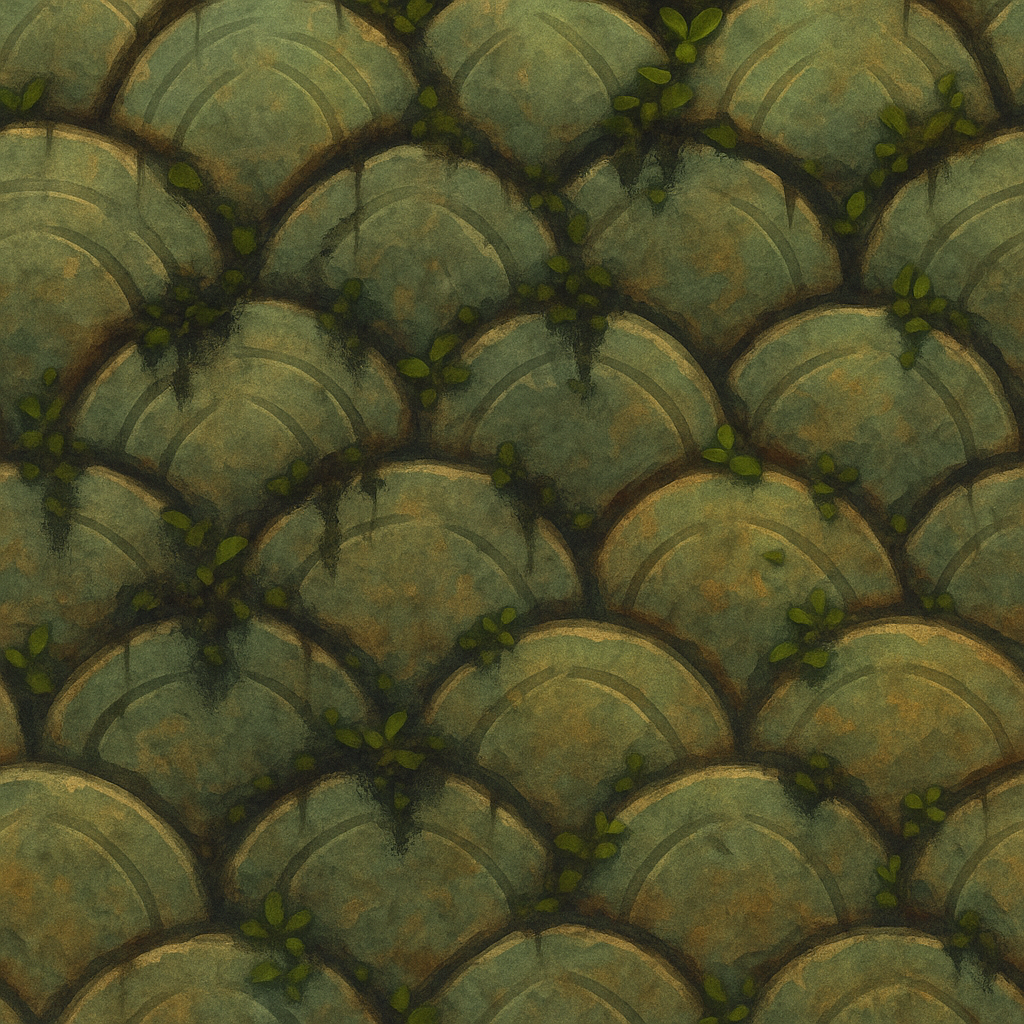
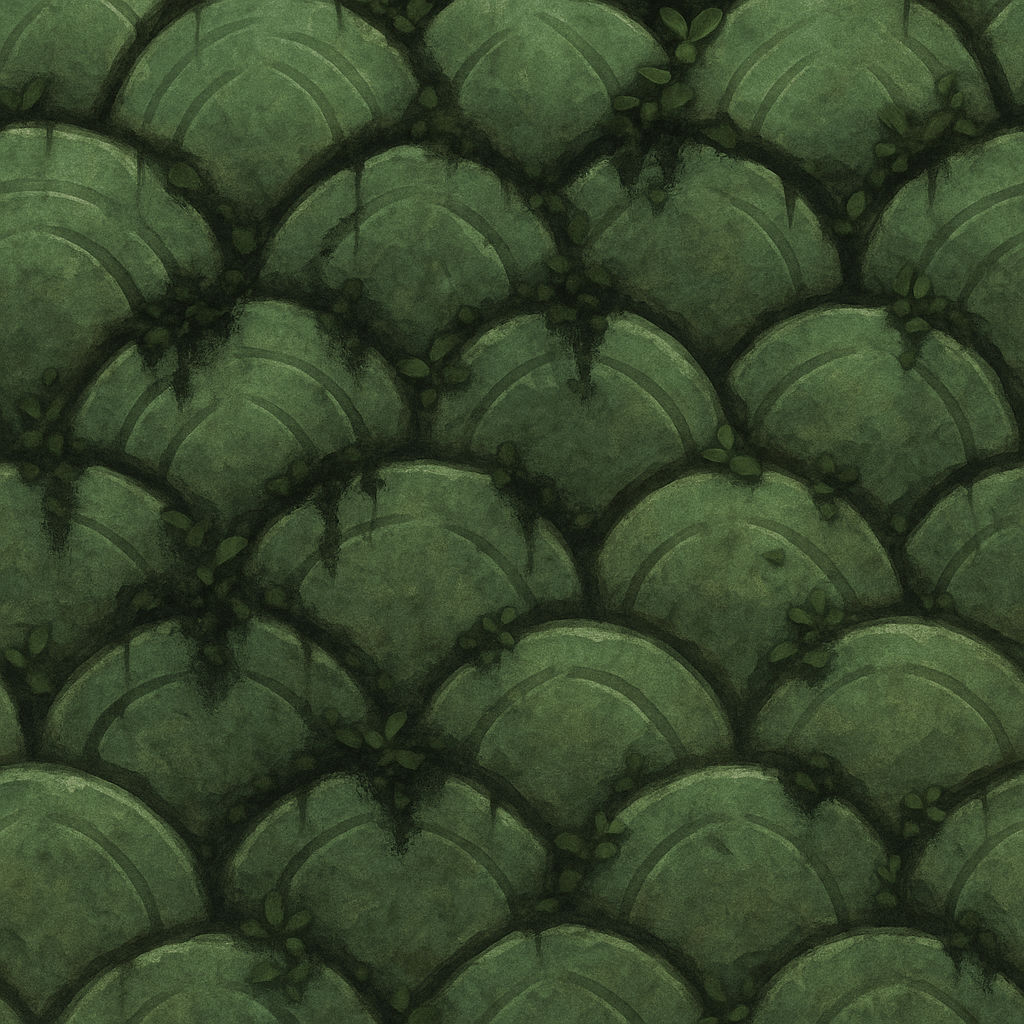
Retheme to Temple-Run-style memecoin look with $ANSEM bull character
- bull.png: replace Pepe bull with the $ANSEM 'The Black Bull' art (bull with
  Ansem's face), cut out from the token's original IPFS image onto a
  transparent sprite with shadow lift so it reads on dark scenes; shows on
  the landing hero, start button, and favicon
- world textures: mossy jungle-temple walls (canal/cliff/tunnel), golden
  sandstone path pavers, teal jungle water, warmer wood
- sky: dusky sunset regraded to bright golden hour
- UI frames: silver steel plates re-tinted to golden temple stone
- stylesheet: lime accents shifted to emerald pump green, olive neutrals
  warmed to sandy gold, brighter temple-gold highlights

Claude-Session: https://claude.ai/code/session_01597jLrtoVvGcRRRKovamuQ

diff --git a/assets/index-DWdqRevs.css b/assets/index-DWdqRevs.css
@@ -1,1 +1,1 @@
-@import "https://fonts.googleapis.com/css2?family=Luckiest+Guy&family=Fredoka:wght@500;600&display=swap";*{box-sizing:border-box;margin:0;padding:0}html,body,#root{height:100%}body{-webkit-font-smoothing:antialiased;-moz-osx-font-smoothing:grayscale;-webkit-user-select:none;user-select:none;background:#14100a;font-family:Luckiest Guy,Trebuchet MS,system-ui,sans-serif;overflow:hidden}button{font:inherit;color:inherit;cursor:pointer;background:0 0;border:none}a{color:inherit;text-decoration:none}img,svg{-webkit-user-drag:none;display:block}.landing{background:url(/herobg.png) 50%/cover no-repeat;height:100%;position:relative;overflow:hidden}.logo{filter:drop-shadow(0 6px 14px #0000008c);pointer-events:none;width:clamp(300px,40vw,580px);position:absolute;top:clamp(8px,2vh,24px);left:50%;translate:-50%}.settings-btn{aspect-ratio:929/874;background:url(/frames/square.png) 50%/contain no-repeat;place-items:center;width:clamp(60px,6.5vw,84px);transition:transform .15s,filter .15s;display:grid;position:absolute;top:clamp(12px,2.5vh,24px);left:clamp(12px,2vw,24px)}.settings-btn svg{fill:#8f8f8b;filter:drop-shadow(0 1px 1px #ffffff59)drop-shadow(0 -1px 1px #0006);width:52%;height:52%}.hud-menu{flex-direction:column;align-items:flex-end;gap:clamp(8px,1.4vh,14px);display:flex;position:absolute;top:clamp(12px,2.5vh,24px);right:clamp(12px,2vw,24px)}.menu-btn{aspect-ratio:1498/544;color:#efe3c4;letter-spacing:1px;text-shadow:0 2px 3px #000c;background:url(/frames/horizontal.png) 50%/contain no-repeat;place-items:center;width:clamp(190px,17vw,250px);padding:.35em 14% 0;font-size:clamp(15px,1.35vw,20px);line-height:1;transition:transform .15s,filter .15s;display:grid}.stage{flex-direction:column;align-items:center;display:flex;position:absolute;top:55%;left:50%;translate:-50% -50%}.arch-text{width:clamp(320px,34vw,480px);margin-bottom:clamp(-18px,-1.2vw,-10px);overflow:visible}.arch-text text{fill:#f3e2b4;stroke:#4b2708;stroke-width:7px;paint-order:stroke;letter-spacing:2px;font-family:Luckiest Guy,sans-serif;font-size:44px}.bull-btn{transition:transform .15s;animation:2.2s ease-in-out infinite bull-bounce;position:relative}.bull-btn:before{content:"";background:radial-gradient(circle,#ffd65ccc 0%,#ffb82859 38%,#0000 68%);animation:2.2s ease-in-out infinite glow-pulse;position:absolute;inset:-28%}.bull-btn img{width:clamp(140px,21vh,210px);animation:2.2s ease-in-out infinite bull-glow;position:relative}.bull-btn:hover{transform:scale(1.05)}.press-play{color:#efe3c4;letter-spacing:3px;text-shadow:0 0 6px #0009,0 3px 4px #000c;margin-top:clamp(14px,3.5vh,40px);font-size:clamp(20px,2.2vw,32px);animation:1.8s ease-in-out infinite soft-pulse}.dock{gap:clamp(14px,2.2vw,32px);display:flex;position:absolute;bottom:clamp(12px,3vh,28px);left:50%;translate:-50%}.dock-btn{aspect-ratio:1536/1024;background:url(/frames/small.png) 50%/contain no-repeat;place-items:center;width:clamp(78px,8.5vw,118px);transition:transform .15s,filter .15s;display:grid}.dock-btn svg{fill:#4a4a46;filter:drop-shadow(0 1px #fff6);width:34%;height:34%}.dock-btn .dex-icon{filter:grayscale();mix-blend-mode:multiply;opacity:.72;width:36%}.buy-btn{aspect-ratio:1174/439;color:#3d2504;letter-spacing:1px;text-shadow:0 1px #fff0aa99;background:url(/frames/gold.png) 50%/contain no-repeat;place-items:center;width:clamp(170px,15vw,230px);padding-top:.35em;font-size:clamp(18px,1.6vw,26px);line-height:1;transition:transform .15s,filter .15s;display:grid;position:absolute;bottom:clamp(12px,3vh,28px);right:clamp(12px,2vw,28px)}.settings-btn:hover,.menu-btn:hover,.dock-btn:hover,.buy-btn:hover{filter:brightness(1.12);transform:scale(1.06)}.settings-btn:active,.menu-btn:active,.dock-btn:active,.buy-btn:active{transform:scale(.97)}.modal-overlay{z-index:50;background:#00000080;place-items:center;animation:.2s fade-in;display:grid;position:fixed;inset:0}.modal{filter:drop-shadow(0 14px 34px #000000a6);border:40px solid #0000;border-image:url(/frames/square.png) 90 fill;width:min(640px,92vw);max-height:88vh;animation:.22s pop-in;position:relative}.modal-close{aspect-ratio:1536/1024;background:url(/frames/small.png) 50%/contain no-repeat;place-items:center;width:118px;transition:transform .15s,filter .15s;display:grid;position:absolute;top:-58px;right:-76px}.modal-close:hover{filter:brightness(1.12);transform:scale(1.08)}.modal-close svg{stroke:#4a4a46;stroke-width:4.5px;stroke-linecap:round;fill:none;filter:drop-shadow(0 1px #fff6);width:34%;height:34%}.modal-body{max-height:calc(88vh - 140px);padding:clamp(18px,3.5vh,36px) clamp(8px,2.5vw,28px) clamp(26px,5vh,48px);overflow-y:auto}.modal-title{text-align:center;color:#f4d9a4;letter-spacing:2px;text-shadow:0 3px 4px #000c;margin-bottom:clamp(20px,3.5vh,36px);font-size:clamp(26px,3vw,36px)}.steps{flex-direction:column;gap:clamp(18px,3vh,30px);list-style:none;display:flex}.step{grid-template-columns:56px 1fr;align-items:center;gap:18px;display:grid}.step-num{color:#8a6420;background:linear-gradient(160deg,#f6eed6 0%,#e5d7ae 100%);border-radius:8px;place-items:center;width:56px;height:56px;padding-top:6px;font-size:28px;line-height:1;display:grid;rotate:-2deg;box-shadow:inset 0 -3px #7a5a1e40,0 3px 6px #00000080}.step h3{color:#e79b2d;letter-spacing:1px;text-shadow:0 2px 3px #000000bf;margin-bottom:2px;font-size:clamp(17px,1.8vw,22px);font-weight:400}.step p{color:#f5f2ea;text-shadow:0 1px 2px #000000b3;font-family:Fredoka,Trebuchet MS,sans-serif;font-size:clamp(13px,1.3vw,15.5px);font-weight:500;line-height:1.35}.lb-subtitle{text-align:center;color:#b8b09a;text-shadow:0 1px 2px #000000b3;margin:-14px 0 clamp(14px,2.5vh,24px);font-family:Fredoka,Trebuchet MS,sans-serif;font-size:clamp(12px,1.2vw,14.5px);font-weight:500}.lb-panel{background:#00000047;border:2px solid #beb9a038;border-radius:16px;gap:clamp(12px,1.8vw,22px);padding:clamp(12px,1.8vh,18px);display:flex;box-shadow:inset 0 2px 10px #00000073}.lb-track{cursor:pointer;background:linear-gradient(#0000008c,#0006);border:2px solid #83816f;border-radius:12px;flex:none;width:24px;position:relative;box-shadow:inset 0 3px 6px #000c,0 1px #ffffff1f}.lb-thumb{cursor:grab;touch-action:none;z-index:1;width:34px;height:34px;position:absolute;left:50%;translate:-50%}.lb-thumb:active{cursor:grabbing}.lb-thumb:before{content:"";background:linear-gradient(135deg,#ecece2 0%,#a9a89a 55%,#83816f 100%);border:2px solid #2c2c24;border-radius:5px;position:absolute;inset:2px;rotate:45deg;box-shadow:0 2px 5px #0009}.lb-thumb:after{content:"";background:linear-gradient(135deg,#d5ff5e 0%,#86e429 45%,#4ea812 100%);border:1px solid #2c5c10;border-radius:3px;position:absolute;inset:9px;rotate:45deg;box-shadow:inset 0 1px 2px #fff9}.lb-scroll{scrollbar-width:none;flex:1;max-height:min(48vh,420px);overflow-y:auto}.lb-scroll::-webkit-scrollbar{display:none}.lb-list{list-style:none}.lb-row{border-bottom:1px solid #ffffff12;grid-template-columns:40px 1fr auto;align-items:center;gap:14px;padding:clamp(8px,1.4vh,12px) 8px;display:grid}.lb-row:last-child{border-bottom:none}.lb-rank{color:#b9b29b;text-align:center;text-shadow:0 2px 2px #000000b3;padding-top:4px;font-size:clamp(16px,1.6vw,20px);line-height:1}.lb-rank.top{color:#ffd94a}.lb-name{color:#f5f2ea;text-overflow:ellipsis;white-space:nowrap;text-shadow:0 1px 2px #000000b3;font-family:Fredoka,Trebuchet MS,sans-serif;font-size:clamp(13.5px,1.35vw,16px);font-weight:500;overflow:hidden}.lb-score{color:#e79b2d;text-shadow:0 2px 2px #000000b3;padding-top:4px;font-size:clamp(15px,1.5vw,19px);line-height:1}.modal-title.green{color:#8ce63a;text-shadow:0 0 2px #1e4a0a,0 3px 4px #000000d9}.settings{flex-direction:column;gap:clamp(20px,3.2vh,30px);padding:0 clamp(4px,2vw,24px);display:flex}.set-label{color:#f5f2ea;text-shadow:0 1px 2px #000000b3;margin-bottom:12px;font-family:Fredoka,Trebuchet MS,sans-serif;font-size:clamp(16px,1.6vw,19px);font-weight:600;display:block}.set-slider{appearance:none;background:linear-gradient(180deg, #a8ef42 0%, #86e429 45%, #55b515 100%) 0 / var(--fill) 100% no-repeat, linear-gradient(180deg, #12100c 0%, #26231c 100%);cursor:pointer;border:3px solid #83816f;border-radius:14px;width:100%;height:28px;display:block;box-shadow:inset 0 3px 6px #000000b3,0 1px #ffffff1f}.set-slider::-webkit-slider-thumb{-webkit-appearance:none;cursor:grab;background:radial-gradient(circle at 50% 45%,#b9f24e 0 36%,#0000 39%),linear-gradient(135deg,#ecece2 0%,#a9a89a 55%,#83816f 100%);border:2px solid #2c2c24;border-radius:6px;width:27px;height:27px;transform:rotate(45deg);box-shadow:0 2px 4px #0000008c}.set-slider::-moz-range-thumb{cursor:grab;background:radial-gradient(circle at 50% 45%,#b9f24e 0 36%,#0000 39%),linear-gradient(135deg,#ecece2 0%,#a9a89a 55%,#83816f 100%);border:2px solid #2c2c24;border-radius:6px;width:24px;height:24px}.set-row-inline{align-items:center;gap:18px;display:flex}.set-row-inline .set-label{margin-bottom:0}.set-toggle{color:#f5f2ea;letter-spacing:1px;background:linear-gradient(#3b382f 0%,#211f19 100%);border:2px solid #83816f;border-radius:999px;align-items:center;gap:10px;padding:.5em 20px 5px 12px;font-size:15px;line-height:1;transition:filter .15s;display:inline-flex;box-shadow:inset 0 2px 5px #0009}.set-toggle:hover{filter:brightness(1.15)}.toggle-gem{background:linear-gradient(135deg,#8f8d81 0%,#55534a 100%);border:2px solid #2c2c24;border-radius:4px;width:17px;height:17px;margin-top:-.4em;rotate:45deg}.set-toggle.on .toggle-gem{background:linear-gradient(135deg,#d5ff5e 0%,#86e429 45%,#4ea812 100%)}.set-footer{color:#a89f85;letter-spacing:1px;font-family:Fredoka,Trebuchet MS,sans-serif;font-size:12px;font-weight:600}.set-input{color:#f5f2ea;text-shadow:0 1px 2px #000000b3;background:linear-gradient(#12100c 0%,#26231c 100%);border:3px solid #83816f;border-radius:14px;outline:none;width:100%;padding:12px 16px 10px;font-family:Fredoka,Trebuchet MS,sans-serif;font-size:clamp(15px,1.5vw,18px);font-weight:600;display:block;box-shadow:inset 0 3px 6px #000000b3,0 1px #ffffff1f}.set-input::placeholder{color:#79715c;font-weight:500}.set-input:focus{border-color:#c9a44a;box-shadow:inset 0 3px 6px #000000b3,0 0 0 3px #e79b2d40}.signup-form{flex-direction:column;gap:clamp(16px,2.6vh,24px);padding:0 clamp(4px,2vw,24px);display:flex}.signup-actions{justify-content:center;margin-top:4px;display:flex}.form-error{color:#ff9563;text-shadow:0 1px 2px #000c;margin:-6px 0 0;font-family:Fredoka,Trebuchet MS,sans-serif;font-size:14px;font-weight:600}.set-toggle:disabled{opacity:.55;cursor:default;filter:none}.toggle-gem.saved{background:linear-gradient(135deg,#d5ff5e 0%,#86e429 45%,#4ea812 100%)}.auth-submit{aspect-ratio:1174/439;color:#3d2504;letter-spacing:1px;text-shadow:0 1px #fff0aa99;background:url(/frames/gold.png) 50%/contain no-repeat;place-items:center;width:clamp(180px,18vw,240px);padding-top:.35em;font-size:clamp(16px,1.5vw,21px);line-height:1;transition:transform .15s,filter .15s;display:grid}.auth-submit:hover{filter:brightness(1.12);transform:scale(1.06)}.auth-submit:active{transform:scale(.97)}.auth-submit:disabled{opacity:.55;cursor:default;filter:none;transform:none}.game-screen{background:#14100a;position:fixed;inset:0}.game-canvas{touch-action:none;width:100%;height:100%;display:block;position:absolute;inset:0}.game-hud{pointer-events:none;position:absolute;inset:0}.hud-pause{pointer-events:auto}.hud-stats{flex-direction:column;align-items:flex-end;gap:10px;display:flex;position:absolute;top:clamp(12px,2.5vh,24px);right:clamp(12px,2vw,24px)}.hud-bar{aspect-ratio:1498/544;color:#f4d9a4;letter-spacing:1px;text-shadow:0 2px 3px #000c;background:url(/frames/horizontal.png) 50%/contain no-repeat;justify-content:flex-end;align-items:center;gap:8px;width:clamp(150px,13vw,200px);padding:0 18%;font-size:clamp(15px,1.4vw,20px);line-height:1;display:flex}.hud-bar span{padding-top:.3em}.hud-icon{font-size:.85em}.game-over{text-align:center;width:min(480px,90vw)}.over-reason{color:#d8cfb4;text-shadow:0 1px 2px #000000b3;margin:-10px 0 20px;font-family:Fredoka,Trebuchet MS,sans-serif;font-size:clamp(14px,1.4vw,17px);font-weight:500}.over-stats{justify-content:center;gap:clamp(24px,4vw,48px);margin-bottom:clamp(20px,3.5vh,32px);display:flex}.over-stats>div{flex-direction:column;gap:6px;display:flex}.over-label{letter-spacing:2px;text-transform:uppercase;color:#a89f85;font-family:Fredoka,Trebuchet MS,sans-serif;font-size:12px;font-weight:600}.over-value{color:#e79b2d;text-shadow:0 2px 3px #000000bf;font-size:clamp(22px,2.4vw,30px);line-height:1}.over-buttons{flex-direction:column;align-items:center;gap:12px;display:flex}.over-btn{width:clamp(190px,18vw,230px);position:static}.over-menu{width:clamp(190px,18vw,230px)}@keyframes fade-in{0%{opacity:0}to{opacity:1}}@keyframes pop-in{0%{opacity:0;scale:.9}to{opacity:1;scale:1}}@keyframes bull-bounce{0%,to{translate:0}50%{translate:0 -14px}}@keyframes bull-glow{0%,to{filter:drop-shadow(0 0 14px #ffc846d9)drop-shadow(0 0 36px #ffa50073)}50%{filter:drop-shadow(0 0 24px #ffd664)drop-shadow(0 0 60px #ffb414b3)}}@keyframes glow-pulse{0%,to{opacity:.7;scale:1}50%{opacity:1;scale:1.1}}@keyframes soft-pulse{0%,to{opacity:1}50%{opacity:.65}}.docs{-webkit-user-select:text;user-select:text;background:#14100a;flex-direction:column;display:flex;position:fixed;inset:0;overflow:hidden}.docs-hero{background:linear-gradient(#14100a26 0%,#14100a8c 70%,#14100a 100%),url(/herobg.png) 50% 30%/cover no-repeat;flex-direction:column;flex:none;justify-content:center;align-items:center;min-height:clamp(150px,24vh,230px);padding:clamp(14px,3vh,26px) 20px;display:flex;position:relative}.docs-back{white-space:nowrap;width:clamp(150px,13vw,190px);padding:.35em 18px 0;font-size:clamp(12px,1vw,15px);position:absolute;top:clamp(12px,2.5vh,24px);left:clamp(12px,2vw,24px)}.docs-logo{filter:drop-shadow(0 6px 14px #0000008c);width:clamp(200px,22vw,320px)}.docs-tagline{color:#efe3c4;letter-spacing:2px;text-align:center;text-shadow:0 0 6px #0009,0 3px 4px #000c;margin-top:clamp(6px,1.4vh,14px);font-size:clamp(14px,1.4vw,19px)}.docs-shell{filter:drop-shadow(0 14px 34px #0009);border:38px solid #0000;border-image:url(/frames/square.png) 90 fill;flex:1;gap:clamp(10px,1.4vw,22px);width:min(1220px,96vw);min-height:0;margin:clamp(6px,1.5vh,16px) auto clamp(14px,2.5vh,26px);padding:clamp(10px,1.8vh,20px) clamp(8px,1.4vw,18px);display:flex}.docs-toc{border-right:2px solid #beb9a02e;flex-direction:column;flex:none;gap:6px;width:clamp(180px,17vw,230px);padding:8px 4px 8px 0;display:flex}.docs-toc-link{color:#cfc5a8;letter-spacing:1px;text-align:left;text-shadow:0 2px 3px #000c;border-radius:10px;align-items:center;gap:10px;padding:10px 10px 8px;font-size:clamp(13px,1.05vw,16px);line-height:1;transition:background .15s,color .15s;display:flex}.docs-toc-link:hover{color:#f5eeda;background:#0000004d}.toc-gem{background:linear-gradient(135deg,#8f8d81 0%,#55534a 100%);border:2px solid #2c2c24;border-radius:3px;flex:none;width:13px;height:13px;margin-top:-.35em;transition:background .15s;rotate:45deg}.docs-toc-link.active{color:#8ce63a;text-shadow:0 0 2px #1e4a0a,0 2px 3px #000000d9;background:#00000061}.docs-toc-link.active .toc-gem{background:linear-gradient(135deg,#d5ff5e 0%,#86e429 45%,#4ea812 100%)}.docs-toc-cta{align-self:center;width:100%;max-width:200px;margin-top:auto}.docs-scroll{scrollbar-width:none;flex:1;min-width:0;padding:6px clamp(10px,1.6vw,26px) 30px clamp(4px,1vw,14px);overflow-y:auto}.docs-scroll::-webkit-scrollbar{display:none}.docs-track{flex:none;margin:8px 2px 8px 0}.docs-section{border-bottom:2px solid #beb9a024;padding:clamp(10px,2vh,20px) 0 clamp(18px,3vh,30px)}.docs-section:last-child{border-bottom:none}.docs-h2{color:#f4d9a4;letter-spacing:2px;text-shadow:0 3px 4px #000c;margin-bottom:clamp(14px,2.4vh,24px);font-size:clamp(24px,2.6vw,32px)}.docs-section p,.docs-list li{color:#f5f2ea;text-shadow:0 1px 2px #000000b3;font-family:Fredoka,Trebuchet MS,sans-serif;font-size:clamp(14px,1.4vw,16.5px);font-weight:500;line-height:1.55}.docs-section p+p{margin-top:12px}.docs-section strong{color:#e79b2d;font-weight:600}.docs-list{flex-direction:column;gap:10px;margin:14px 0;list-style:none;display:flex}.docs-list li{padding-left:26px;position:relative}.docs-list li:before{content:"";background:linear-gradient(135deg,#d5ff5e 0%,#86e429 45%,#4ea812 100%);border:2px solid #2c2c24;border-radius:3px;width:11px;height:11px;position:absolute;top:.52em;left:4px;rotate:45deg}.docs-origin{max-width:440px;margin:clamp(16px,2.6vh,26px) auto;transition:transform .15s,filter .15s;display:block}.docs-origin:hover{filter:brightness(1.08);transform:scale(1.02)}.docs-origin img{border:3px solid #83816f;border-radius:14px;width:100%;box-shadow:0 10px 26px #0009}.docs-origin-caption{text-align:center;color:#b8b09a;text-shadow:0 1px 2px #000000b3;margin-top:10px;font-family:Fredoka,Trebuchet MS,sans-serif;font-size:clamp(12px,1.2vw,14px);font-weight:500;display:block}.docs-controls{flex-direction:column;gap:10px;margin:clamp(14px,2.4vh,22px) 0;display:flex}.docs-control{background:#00000047;border-radius:12px;grid-template-columns:minmax(150px,220px) 1fr;align-items:center;gap:14px;padding:10px 14px;display:grid}.docs-keys{color:#8ce63a;letter-spacing:1px;text-shadow:0 0 2px #1e4a0a,0 2px 3px #000000d9;font-size:clamp(13px,1.3vw,16px)}.docs-does{color:#f5f2ea;text-shadow:0 1px 2px #000000b3;font-family:Fredoka,Trebuchet MS,sans-serif;font-size:clamp(13px,1.3vw,15px);font-weight:500;line-height:1.4}.docs-steps{margin:clamp(14px,2.4vh,22px) 0}.docs-gh{color:#8ce63a;letter-spacing:1px;text-shadow:0 0 2px #1e4a0a,0 2px 3px #000000d9;margin-top:clamp(14px,2.4vh,20px);font-size:clamp(15px,1.5vw,18px);transition:transform .15s,filter .15s;display:inline-block}.docs-gh:hover{filter:brightness(1.15);transform:scale(1.04)}.docs-end{margin-top:clamp(24px,4vh,40px)}@media (width<=760px){.docs-shell{border-width:26px;flex-direction:column}.docs-toc{border-bottom:2px solid #beb9a02e;border-right:none;flex-flow:wrap;width:100%;padding:0 0 8px}.docs-toc-cta,.docs-track{display:none}.docs-control{grid-template-columns:1fr;gap:4px}}.prompt-note{color:#e79b2d;margin-top:-8px}.hud-hint{color:#ffe9ad;letter-spacing:2px;white-space:nowrap;text-shadow:0 0 4px #000000a6,0 3px 5px #000000d9;pointer-events:none;font-size:clamp(19px,2.4vw,30px);animation:.25s hint-pop,1.5s ease-in-out .25s infinite soft-pulse;position:absolute;bottom:26%;left:50%;translate:-50%}@keyframes hint-pop{0%{opacity:0;scale:.75}to{opacity:1;scale:1}}.loading-screen{z-index:200;background:#1c0703 url(/lightbg.jpeg) 50%/cover no-repeat;flex-direction:column;justify-content:center;align-items:center;gap:clamp(22px,4vh,40px);transition:opacity .7s;display:flex;position:fixed;inset:0}.loading-screen.fade-out{opacity:0;pointer-events:none}.loading-logo{filter:drop-shadow(0 8px 18px #0009);width:clamp(300px,46vw,640px);animation:2.4s ease-in-out infinite loading-bob}@keyframes loading-bob{0%,to{translate:0;scale:1}50%{translate:0 -8px;scale:1.015}}.loading-bar{background:#140703b8;border:2px solid #ffc75c8c;border-radius:999px;width:clamp(260px,34vw,440px);height:clamp(16px,2.2vh,22px);overflow:hidden;box-shadow:inset 0 2px 6px #000000b3,0 3px 10px #00000073}.loading-fill{background:linear-gradient(#ffdf7e 0%,#f5b93c 45%,#c97f18 100%);border-radius:999px;height:100%;transition:width .12s linear;position:relative;box-shadow:inset 0 -2px 3px #783c008c}.loading-fill:after{content:"";background:linear-gradient(105deg,#0000 30%,#ffffff73 50%,#0000 70%) 0 0/220% 100%;animation:1.4s linear infinite loading-shimmer;position:absolute;inset:0}@keyframes loading-shimmer{0%{background-position:160% 0}to{background-position:-60% 0}}.loading-status{color:#ffe9ad;letter-spacing:3px;text-transform:uppercase;text-shadow:0 0 4px #000000a6,0 3px 5px #000000d9;align-items:baseline;gap:12px;font-size:clamp(18px,2.2vw,26px);animation:1.5s ease-in-out infinite soft-pulse;display:flex}.loading-pct{color:#ffd668;text-align:left;min-width:3.2ch}.lb-empty{text-align:center;color:#d8c9a3;padding:28px 12px;font-family:Fredoka,Trebuchet MS,sans-serif;font-size:15px}.auth-tabs{gap:10px;margin-bottom:6px;display:flex}.auth-user{color:#ffd668;letter-spacing:.5px;margin-right:auto;font-family:Fredoka,Trebuchet MS,sans-serif;font-size:16px;font-weight:600}.auth-signout{margin-left:auto}
+@import "https://fonts.googleapis.com/css2?family=Luckiest+Guy&family=Fredoka:wght@500;600&display=swap";*{box-sizing:border-box;margin:0;padding:0}html,body,#root{height:100%}body{-webkit-font-smoothing:antialiased;-moz-osx-font-smoothing:grayscale;-webkit-user-select:none;user-select:none;background:#14100a;font-family:Luckiest Guy,Trebuchet MS,system-ui,sans-serif;overflow:hidden}button{font:inherit;color:inherit;cursor:pointer;background:0 0;border:none}a{color:inherit;text-decoration:none}img,svg{-webkit-user-drag:none;display:block}.landing{background:url(/herobg.png) 50%/cover no-repeat;height:100%;position:relative;overflow:hidden}.logo{filter:drop-shadow(0 6px 14px #0000008c);pointer-events:none;width:clamp(300px,40vw,580px);position:absolute;top:clamp(8px,2vh,24px);left:50%;translate:-50%}.settings-btn{aspect-ratio:929/874;background:url(/frames/square.png) 50%/contain no-repeat;place-items:center;width:clamp(60px,6.5vw,84px);transition:transform .15s,filter .15s;display:grid;position:absolute;top:clamp(12px,2.5vh,24px);left:clamp(12px,2vw,24px)}.settings-btn svg{fill:#8f8f8b;filter:drop-shadow(0 1px 1px #ffffff59)drop-shadow(0 -1px 1px #0006);width:52%;height:52%}.hud-menu{flex-direction:column;align-items:flex-end;gap:clamp(8px,1.4vh,14px);display:flex;position:absolute;top:clamp(12px,2.5vh,24px);right:clamp(12px,2vw,24px)}.menu-btn{aspect-ratio:1498/544;color:#efe3c4;letter-spacing:1px;text-shadow:0 2px 3px #000c;background:url(/frames/horizontal.png) 50%/contain no-repeat;place-items:center;width:clamp(190px,17vw,250px);padding:.35em 14% 0;font-size:clamp(15px,1.35vw,20px);line-height:1;transition:transform .15s,filter .15s;display:grid}.stage{flex-direction:column;align-items:center;display:flex;position:absolute;top:55%;left:50%;translate:-50% -50%}.arch-text{width:clamp(320px,34vw,480px);margin-bottom:clamp(-18px,-1.2vw,-10px);overflow:visible}.arch-text text{fill:#f3e2b4;stroke:#4b2708;stroke-width:7px;paint-order:stroke;letter-spacing:2px;font-family:Luckiest Guy,sans-serif;font-size:44px}.bull-btn{transition:transform .15s;animation:2.2s ease-in-out infinite bull-bounce;position:relative}.bull-btn:before{content:"";background:radial-gradient(circle,#ffd65ccc 0%,#ffb82859 38%,#0000 68%);animation:2.2s ease-in-out infinite glow-pulse;position:absolute;inset:-28%}.bull-btn img{width:clamp(140px,21vh,210px);animation:2.2s ease-in-out infinite bull-glow;position:relative}.bull-btn:hover{transform:scale(1.05)}.press-play{color:#efe3c4;letter-spacing:3px;text-shadow:0 0 6px #0009,0 3px 4px #000c;margin-top:clamp(14px,3.5vh,40px);font-size:clamp(20px,2.2vw,32px);animation:1.8s ease-in-out infinite soft-pulse}.dock{gap:clamp(14px,2.2vw,32px);display:flex;position:absolute;bottom:clamp(12px,3vh,28px);left:50%;translate:-50%}.dock-btn{aspect-ratio:1536/1024;background:url(/frames/small.png) 50%/contain no-repeat;place-items:center;width:clamp(78px,8.5vw,118px);transition:transform .15s,filter .15s;display:grid}.dock-btn svg{fill:#4a4a46;filter:drop-shadow(0 1px #fff6);width:34%;height:34%}.dock-btn .dex-icon{filter:grayscale();mix-blend-mode:multiply;opacity:.72;width:36%}.buy-btn{aspect-ratio:1174/439;color:#3d2504;letter-spacing:1px;text-shadow:0 1px #fff0aa99;background:url(/frames/gold.png) 50%/contain no-repeat;place-items:center;width:clamp(170px,15vw,230px);padding-top:.35em;font-size:clamp(18px,1.6vw,26px);line-height:1;transition:transform .15s,filter .15s;display:grid;position:absolute;bottom:clamp(12px,3vh,28px);right:clamp(12px,2vw,28px)}.settings-btn:hover,.menu-btn:hover,.dock-btn:hover,.buy-btn:hover{filter:brightness(1.12);transform:scale(1.06)}.settings-btn:active,.menu-btn:active,.dock-btn:active,.buy-btn:active{transform:scale(.97)}.modal-overlay{z-index:50;background:#00000080;place-items:center;animation:.2s fade-in;display:grid;position:fixed;inset:0}.modal{filter:drop-shadow(0 14px 34px #000000a6);border:40px solid #0000;border-image:url(/frames/square.png) 90 fill;width:min(640px,92vw);max-height:88vh;animation:.22s pop-in;position:relative}.modal-close{aspect-ratio:1536/1024;background:url(/frames/small.png) 50%/contain no-repeat;place-items:center;width:118px;transition:transform .15s,filter .15s;display:grid;position:absolute;top:-58px;right:-76px}.modal-close:hover{filter:brightness(1.12);transform:scale(1.08)}.modal-close svg{stroke:#4a4a46;stroke-width:4.5px;stroke-linecap:round;fill:none;filter:drop-shadow(0 1px #fff6);width:34%;height:34%}.modal-body{max-height:calc(88vh - 140px);padding:clamp(18px,3.5vh,36px) clamp(8px,2.5vw,28px) clamp(26px,5vh,48px);overflow-y:auto}.modal-title{text-align:center;color:#f4d9a4;letter-spacing:2px;text-shadow:0 3px 4px #000c;margin-bottom:clamp(20px,3.5vh,36px);font-size:clamp(26px,3vw,36px)}.steps{flex-direction:column;gap:clamp(18px,3vh,30px);list-style:none;display:flex}.step{grid-template-columns:56px 1fr;align-items:center;gap:18px;display:grid}.step-num{color:#8a6420;background:linear-gradient(160deg,#f6eed6 0%,#e5d7ae 100%);border-radius:8px;place-items:center;width:56px;height:56px;padding-top:6px;font-size:28px;line-height:1;display:grid;rotate:-2deg;box-shadow:inset 0 -3px #7a5a1e40,0 3px 6px #00000080}.step h3{color:#ffb020;letter-spacing:1px;text-shadow:0 2px 3px #000000bf;margin-bottom:2px;font-size:clamp(17px,1.8vw,22px);font-weight:400}.step p{color:#f5f2ea;text-shadow:0 1px 2px #000000b3;font-family:Fredoka,Trebuchet MS,sans-serif;font-size:clamp(13px,1.3vw,15.5px);font-weight:500;line-height:1.35}.lb-subtitle{text-align:center;color:#d8bc82;text-shadow:0 1px 2px #000000b3;margin:-14px 0 clamp(14px,2.5vh,24px);font-family:Fredoka,Trebuchet MS,sans-serif;font-size:clamp(12px,1.2vw,14.5px);font-weight:500}.lb-panel{background:#00000047;border:2px solid #beb9a038;border-radius:16px;gap:clamp(12px,1.8vw,22px);padding:clamp(12px,1.8vh,18px);display:flex;box-shadow:inset 0 2px 10px #00000073}.lb-track{cursor:pointer;background:linear-gradient(#0000008c,#0006);border:2px solid #c9a86a;border-radius:12px;flex:none;width:24px;position:relative;box-shadow:inset 0 3px 6px #000c,0 1px #ffffff1f}.lb-thumb{cursor:grab;touch-action:none;z-index:1;width:34px;height:34px;position:absolute;left:50%;translate:-50%}.lb-thumb:active{cursor:grabbing}.lb-thumb:before{content:"";background:linear-gradient(135deg,#ecece2 0%,#d4b87e 55%,#c9a86a 100%);border:2px solid #241a10;border-radius:5px;position:absolute;inset:2px;rotate:45deg;box-shadow:0 2px 5px #0009}.lb-thumb:after{content:"";background:linear-gradient(135deg,#ffe066 0%,#2fe07a 45%,#18a558 100%);border:1px solid #2c5c10;border-radius:3px;position:absolute;inset:9px;rotate:45deg;box-shadow:inset 0 1px 2px #fff9}.lb-scroll{scrollbar-width:none;flex:1;max-height:min(48vh,420px);overflow-y:auto}.lb-scroll::-webkit-scrollbar{display:none}.lb-list{list-style:none}.lb-row{border-bottom:1px solid #ffffff12;grid-template-columns:40px 1fr auto;align-items:center;gap:14px;padding:clamp(8px,1.4vh,12px) 8px;display:grid}.lb-row:last-child{border-bottom:none}.lb-rank{color:#b9b29b;text-align:center;text-shadow:0 2px 2px #000000b3;padding-top:4px;font-size:clamp(16px,1.6vw,20px);line-height:1}.lb-rank.top{color:#ffd94a}.lb-name{color:#f5f2ea;text-overflow:ellipsis;white-space:nowrap;text-shadow:0 1px 2px #000000b3;font-family:Fredoka,Trebuchet MS,sans-serif;font-size:clamp(13.5px,1.35vw,16px);font-weight:500;overflow:hidden}.lb-score{color:#ffb020;text-shadow:0 2px 2px #000000b3;padding-top:4px;font-size:clamp(15px,1.5vw,19px);line-height:1}.modal-title.green{color:#35e57f;text-shadow:0 0 2px #0d3b23,0 3px 4px #000000d9}.settings{flex-direction:column;gap:clamp(20px,3.2vh,30px);padding:0 clamp(4px,2vw,24px);display:flex}.set-label{color:#f5f2ea;text-shadow:0 1px 2px #000000b3;margin-bottom:12px;font-family:Fredoka,Trebuchet MS,sans-serif;font-size:clamp(16px,1.6vw,19px);font-weight:600;display:block}.set-slider{appearance:none;background:linear-gradient(180deg, #a8ef42 0%, #2fe07a 45%, #55b515 100%) 0 / var(--fill) 100% no-repeat, linear-gradient(180deg, #12100c 0%, #26231c 100%);cursor:pointer;border:3px solid #c9a86a;border-radius:14px;width:100%;height:28px;display:block;box-shadow:inset 0 3px 6px #000000b3,0 1px #ffffff1f}.set-slider::-webkit-slider-thumb{-webkit-appearance:none;cursor:grab;background:radial-gradient(circle at 50% 45%,#ffd23f 0 36%,#0000 39%),linear-gradient(135deg,#ecece2 0%,#d4b87e 55%,#c9a86a 100%);border:2px solid #241a10;border-radius:6px;width:27px;height:27px;transform:rotate(45deg);box-shadow:0 2px 4px #0000008c}.set-slider::-moz-range-thumb{cursor:grab;background:radial-gradient(circle at 50% 45%,#ffd23f 0 36%,#0000 39%),linear-gradient(135deg,#ecece2 0%,#d4b87e 55%,#c9a86a 100%);border:2px solid #241a10;border-radius:6px;width:24px;height:24px}.set-row-inline{align-items:center;gap:18px;display:flex}.set-row-inline .set-label{margin-bottom:0}.set-toggle{color:#f5f2ea;letter-spacing:1px;background:linear-gradient(#3b382f 0%,#211f19 100%);border:2px solid #c9a86a;border-radius:999px;align-items:center;gap:10px;padding:.5em 20px 5px 12px;font-size:15px;line-height:1;transition:filter .15s;display:inline-flex;box-shadow:inset 0 2px 5px #0009}.set-toggle:hover{filter:brightness(1.15)}.toggle-gem{background:linear-gradient(135deg,#8f8d81 0%,#55534a 100%);border:2px solid #241a10;border-radius:4px;width:17px;height:17px;margin-top:-.4em;rotate:45deg}.set-toggle.on .toggle-gem{background:linear-gradient(135deg,#ffe066 0%,#2fe07a 45%,#18a558 100%)}.set-footer{color:#cfa963;letter-spacing:1px;font-family:Fredoka,Trebuchet MS,sans-serif;font-size:12px;font-weight:600}.set-input{color:#f5f2ea;text-shadow:0 1px 2px #000000b3;background:linear-gradient(#12100c 0%,#26231c 100%);border:3px solid #c9a86a;border-radius:14px;outline:none;width:100%;padding:12px 16px 10px;font-family:Fredoka,Trebuchet MS,sans-serif;font-size:clamp(15px,1.5vw,18px);font-weight:600;display:block;box-shadow:inset 0 3px 6px #000000b3,0 1px #ffffff1f}.set-input::placeholder{color:#79715c;font-weight:500}.set-input:focus{border-color:#c9a44a;box-shadow:inset 0 3px 6px #000000b3,0 0 0 3px #ffb02040}.signup-form{flex-direction:column;gap:clamp(16px,2.6vh,24px);padding:0 clamp(4px,2vw,24px);display:flex}.signup-actions{justify-content:center;margin-top:4px;display:flex}.form-error{color:#ff9563;text-shadow:0 1px 2px #000c;margin:-6px 0 0;font-family:Fredoka,Trebuchet MS,sans-serif;font-size:14px;font-weight:600}.set-toggle:disabled{opacity:.55;cursor:default;filter:none}.toggle-gem.saved{background:linear-gradient(135deg,#ffe066 0%,#2fe07a 45%,#18a558 100%)}.auth-submit{aspect-ratio:1174/439;color:#3d2504;letter-spacing:1px;text-shadow:0 1px #fff0aa99;background:url(/frames/gold.png) 50%/contain no-repeat;place-items:center;width:clamp(180px,18vw,240px);padding-top:.35em;font-size:clamp(16px,1.5vw,21px);line-height:1;transition:transform .15s,filter .15s;display:grid}.auth-submit:hover{filter:brightness(1.12);transform:scale(1.06)}.auth-submit:active{transform:scale(.97)}.auth-submit:disabled{opacity:.55;cursor:default;filter:none;transform:none}.game-screen{background:#14100a;position:fixed;inset:0}.game-canvas{touch-action:none;width:100%;height:100%;display:block;position:absolute;inset:0}.game-hud{pointer-events:none;position:absolute;inset:0}.hud-pause{pointer-events:auto}.hud-stats{flex-direction:column;align-items:flex-end;gap:10px;display:flex;position:absolute;top:clamp(12px,2.5vh,24px);right:clamp(12px,2vw,24px)}.hud-bar{aspect-ratio:1498/544;color:#f4d9a4;letter-spacing:1px;text-shadow:0 2px 3px #000c;background:url(/frames/horizontal.png) 50%/contain no-repeat;justify-content:flex-end;align-items:center;gap:8px;width:clamp(150px,13vw,200px);padding:0 18%;font-size:clamp(15px,1.4vw,20px);line-height:1;display:flex}.hud-bar span{padding-top:.3em}.hud-icon{font-size:.85em}.game-over{text-align:center;width:min(480px,90vw)}.over-reason{color:#d8cfb4;text-shadow:0 1px 2px #000000b3;margin:-10px 0 20px;font-family:Fredoka,Trebuchet MS,sans-serif;font-size:clamp(14px,1.4vw,17px);font-weight:500}.over-stats{justify-content:center;gap:clamp(24px,4vw,48px);margin-bottom:clamp(20px,3.5vh,32px);display:flex}.over-stats>div{flex-direction:column;gap:6px;display:flex}.over-label{letter-spacing:2px;text-transform:uppercase;color:#cfa963;font-family:Fredoka,Trebuchet MS,sans-serif;font-size:12px;font-weight:600}.over-value{color:#ffb020;text-shadow:0 2px 3px #000000bf;font-size:clamp(22px,2.4vw,30px);line-height:1}.over-buttons{flex-direction:column;align-items:center;gap:12px;display:flex}.over-btn{width:clamp(190px,18vw,230px);position:static}.over-menu{width:clamp(190px,18vw,230px)}@keyframes fade-in{0%{opacity:0}to{opacity:1}}@keyframes pop-in{0%{opacity:0;scale:.9}to{opacity:1;scale:1}}@keyframes bull-bounce{0%,to{translate:0}50%{translate:0 -14px}}@keyframes bull-glow{0%,to{filter:drop-shadow(0 0 14px #ffc846d9)drop-shadow(0 0 36px #ffa50073)}50%{filter:drop-shadow(0 0 24px #ffd664)drop-shadow(0 0 60px #ffb414b3)}}@keyframes glow-pulse{0%,to{opacity:.7;scale:1}50%{opacity:1;scale:1.1}}@keyframes soft-pulse{0%,to{opacity:1}50%{opacity:.65}}.docs{-webkit-user-select:text;user-select:text;background:#14100a;flex-direction:column;display:flex;position:fixed;inset:0;overflow:hidden}.docs-hero{background:linear-gradient(#14100a26 0%,#14100a8c 70%,#14100a 100%),url(/herobg.png) 50% 30%/cover no-repeat;flex-direction:column;flex:none;justify-content:center;align-items:center;min-height:clamp(150px,24vh,230px);padding:clamp(14px,3vh,26px) 20px;display:flex;position:relative}.docs-back{white-space:nowrap;width:clamp(150px,13vw,190px);padding:.35em 18px 0;font-size:clamp(12px,1vw,15px);position:absolute;top:clamp(12px,2.5vh,24px);left:clamp(12px,2vw,24px)}.docs-logo{filter:drop-shadow(0 6px 14px #0000008c);width:clamp(200px,22vw,320px)}.docs-tagline{color:#efe3c4;letter-spacing:2px;text-align:center;text-shadow:0 0 6px #0009,0 3px 4px #000c;margin-top:clamp(6px,1.4vh,14px);font-size:clamp(14px,1.4vw,19px)}.docs-shell{filter:drop-shadow(0 14px 34px #0009);border:38px solid #0000;border-image:url(/frames/square.png) 90 fill;flex:1;gap:clamp(10px,1.4vw,22px);width:min(1220px,96vw);min-height:0;margin:clamp(6px,1.5vh,16px) auto clamp(14px,2.5vh,26px);padding:clamp(10px,1.8vh,20px) clamp(8px,1.4vw,18px);display:flex}.docs-toc{border-right:2px solid #beb9a02e;flex-direction:column;flex:none;gap:6px;width:clamp(180px,17vw,230px);padding:8px 4px 8px 0;display:flex}.docs-toc-link{color:#cfc5a8;letter-spacing:1px;text-align:left;text-shadow:0 2px 3px #000c;border-radius:10px;align-items:center;gap:10px;padding:10px 10px 8px;font-size:clamp(13px,1.05vw,16px);line-height:1;transition:background .15s,color .15s;display:flex}.docs-toc-link:hover{color:#f5eeda;background:#0000004d}.toc-gem{background:linear-gradient(135deg,#8f8d81 0%,#55534a 100%);border:2px solid #241a10;border-radius:3px;flex:none;width:13px;height:13px;margin-top:-.35em;transition:background .15s;rotate:45deg}.docs-toc-link.active{color:#35e57f;text-shadow:0 0 2px #0d3b23,0 2px 3px #000000d9;background:#00000061}.docs-toc-link.active .toc-gem{background:linear-gradient(135deg,#ffe066 0%,#2fe07a 45%,#18a558 100%)}.docs-toc-cta{align-self:center;width:100%;max-width:200px;margin-top:auto}.docs-scroll{scrollbar-width:none;flex:1;min-width:0;padding:6px clamp(10px,1.6vw,26px) 30px clamp(4px,1vw,14px);overflow-y:auto}.docs-scroll::-webkit-scrollbar{display:none}.docs-track{flex:none;margin:8px 2px 8px 0}.docs-section{border-bottom:2px solid #beb9a024;padding:clamp(10px,2vh,20px) 0 clamp(18px,3vh,30px)}.docs-section:last-child{border-bottom:none}.docs-h2{color:#f4d9a4;letter-spacing:2px;text-shadow:0 3px 4px #000c;margin-bottom:clamp(14px,2.4vh,24px);font-size:clamp(24px,2.6vw,32px)}.docs-section p,.docs-list li{color:#f5f2ea;text-shadow:0 1px 2px #000000b3;font-family:Fredoka,Trebuchet MS,sans-serif;font-size:clamp(14px,1.4vw,16.5px);font-weight:500;line-height:1.55}.docs-section p+p{margin-top:12px}.docs-section strong{color:#ffb020;font-weight:600}.docs-list{flex-direction:column;gap:10px;margin:14px 0;list-style:none;display:flex}.docs-list li{padding-left:26px;position:relative}.docs-list li:before{content:"";background:linear-gradient(135deg,#ffe066 0%,#2fe07a 45%,#18a558 100%);border:2px solid #241a10;border-radius:3px;width:11px;height:11px;position:absolute;top:.52em;left:4px;rotate:45deg}.docs-origin{max-width:440px;margin:clamp(16px,2.6vh,26px) auto;transition:transform .15s,filter .15s;display:block}.docs-origin:hover{filter:brightness(1.08);transform:scale(1.02)}.docs-origin img{border:3px solid #c9a86a;border-radius:14px;width:100%;box-shadow:0 10px 26px #0009}.docs-origin-caption{text-align:center;color:#d8bc82;text-shadow:0 1px 2px #000000b3;margin-top:10px;font-family:Fredoka,Trebuchet MS,sans-serif;font-size:clamp(12px,1.2vw,14px);font-weight:500;display:block}.docs-controls{flex-direction:column;gap:10px;margin:clamp(14px,2.4vh,22px) 0;display:flex}.docs-control{background:#00000047;border-radius:12px;grid-template-columns:minmax(150px,220px) 1fr;align-items:center;gap:14px;padding:10px 14px;display:grid}.docs-keys{color:#35e57f;letter-spacing:1px;text-shadow:0 0 2px #0d3b23,0 2px 3px #000000d9;font-size:clamp(13px,1.3vw,16px)}.docs-does{color:#f5f2ea;text-shadow:0 1px 2px #000000b3;font-family:Fredoka,Trebuchet MS,sans-serif;font-size:clamp(13px,1.3vw,15px);font-weight:500;line-height:1.4}.docs-steps{margin:clamp(14px,2.4vh,22px) 0}.docs-gh{color:#35e57f;letter-spacing:1px;text-shadow:0 0 2px #0d3b23,0 2px 3px #000000d9;margin-top:clamp(14px,2.4vh,20px);font-size:clamp(15px,1.5vw,18px);transition:transform .15s,filter .15s;display:inline-block}.docs-gh:hover{filter:brightness(1.15);transform:scale(1.04)}.docs-end{margin-top:clamp(24px,4vh,40px)}@media (width<=760px){.docs-shell{border-width:26px;flex-direction:column}.docs-toc{border-bottom:2px solid #beb9a02e;border-right:none;flex-flow:wrap;width:100%;padding:0 0 8px}.docs-toc-cta,.docs-track{display:none}.docs-control{grid-template-columns:1fr;gap:4px}}.prompt-note{color:#ffb020;margin-top:-8px}.hud-hint{color:#ffe9ad;letter-spacing:2px;white-space:nowrap;text-shadow:0 0 4px #000000a6,0 3px 5px #000000d9;pointer-events:none;font-size:clamp(19px,2.4vw,30px);animation:.25s hint-pop,1.5s ease-in-out .25s infinite soft-pulse;position:absolute;bottom:26%;left:50%;translate:-50%}@keyframes hint-pop{0%{opacity:0;scale:.75}to{opacity:1;scale:1}}.loading-screen{z-index:200;background:#1c0703 url(/lightbg.jpeg) 50%/cover no-repeat;flex-direction:column;justify-content:center;align-items:center;gap:clamp(22px,4vh,40px);transition:opacity .7s;display:flex;position:fixed;inset:0}.loading-screen.fade-out{opacity:0;pointer-events:none}.loading-logo{filter:drop-shadow(0 8px 18px #0009);width:clamp(300px,46vw,640px);animation:2.4s ease-in-out infinite loading-bob}@keyframes loading-bob{0%,to{translate:0;scale:1}50%{translate:0 -8px;scale:1.015}}.loading-bar{background:#140703b8;border:2px solid #ffc75c8c;border-radius:999px;width:clamp(260px,34vw,440px);height:clamp(16px,2.2vh,22px);overflow:hidden;box-shadow:inset 0 2px 6px #000000b3,0 3px 10px #00000073}.loading-fill{background:linear-gradient(#ffdf7e 0%,#f5b93c 45%,#c97f18 100%);border-radius:999px;height:100%;transition:width .12s linear;position:relative;box-shadow:inset 0 -2px 3px #783c008c}.loading-fill:after{content:"";background:linear-gradient(105deg,#0000 30%,#ffffff73 50%,#0000 70%) 0 0/220% 100%;animation:1.4s linear infinite loading-shimmer;position:absolute;inset:0}@keyframes loading-shimmer{0%{background-position:160% 0}to{background-position:-60% 0}}.loading-status{color:#ffe9ad;letter-spacing:3px;text-transform:uppercase;text-shadow:0 0 4px #000000a6,0 3px 5px #000000d9;align-items:baseline;gap:12px;font-size:clamp(18px,2.2vw,26px);animation:1.5s ease-in-out infinite soft-pulse;display:flex}.loading-pct{color:#ffd668;text-align:left;min-width:3.2ch}.lb-empty{text-align:center;color:#d8c9a3;padding:28px 12px;font-family:Fredoka,Trebuchet MS,sans-serif;font-size:15px}.auth-tabs{gap:10px;margin-bottom:6px;display:flex}.auth-user{color:#ffd668;letter-spacing:.5px;margin-right:auto;font-family:Fredoka,Trebuchet MS,sans-serif;font-size:16px;font-weight:600}.auth-signout{margin-left:auto}
